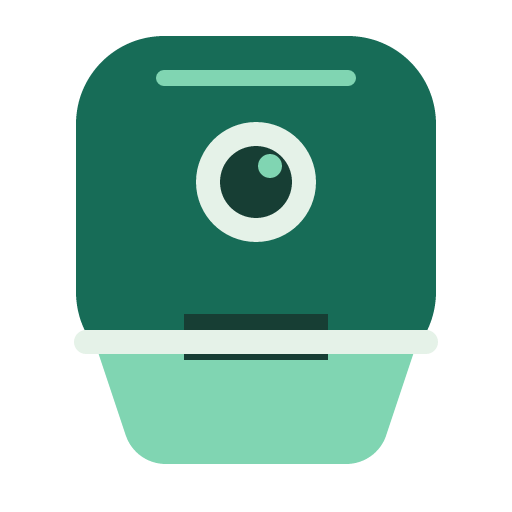
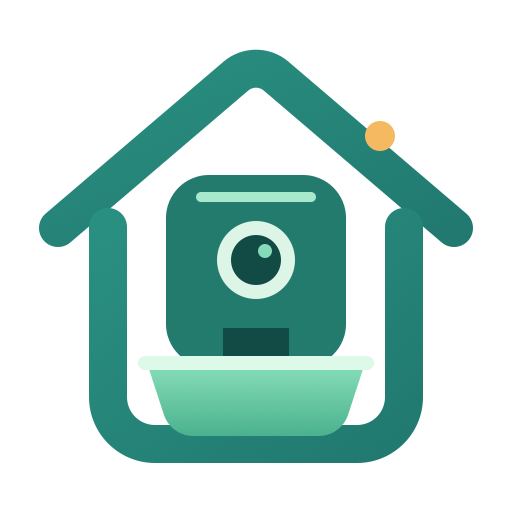
Add original local feeder integration branding

diff --git a/README.md b/README.md
@@ -1,5 +1,7 @@
 # Pet Feeder Local for Home Assistant
 
+<img src="custom_components/pet_feeder_local/brand/icon@2x.png" width="96" alt="Pet Feeder Local Home Assistant integration icon">
+
 [![Add to Marketplace](docs/images/add-to-marketplace.svg)](https://my.home-assistant.io/redirect/marketplace_repository/?owner=e2equiel&repository=ha-pet-feeder-local&category=integration)
 [![Set up integration](docs/images/add-integration.svg)](https://my.home-assistant.io/redirect/config_flow_start/?domain=pet_feeder_local)
 

diff --git a/CHANGELOG.md b/CHANGELOG.md
@@ -1,0 +1,10 @@
+# Changelog
+
+## 0.2.1
+
+- Add an original integration icon featuring the local feeder inside a home. The native Mac installer uses a complementary installer icon.
+- Keep all entities, controls, schedules, camera behavior and configuration unchanged.
+
+## 0.2.0
+
+Community release with bundled dashboard controls, MCU meal editing, local video, discovery, reauthentication, diagnostics and lifecycle support.
